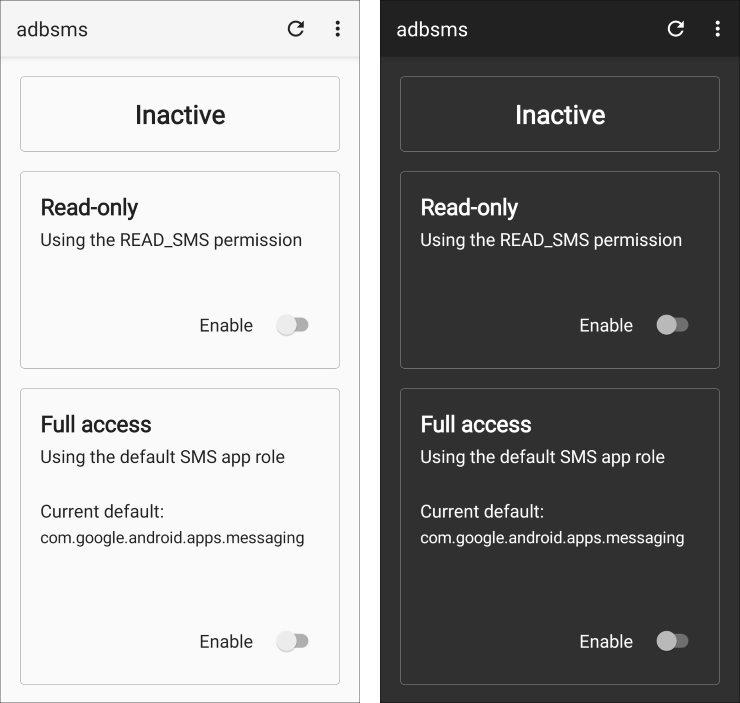
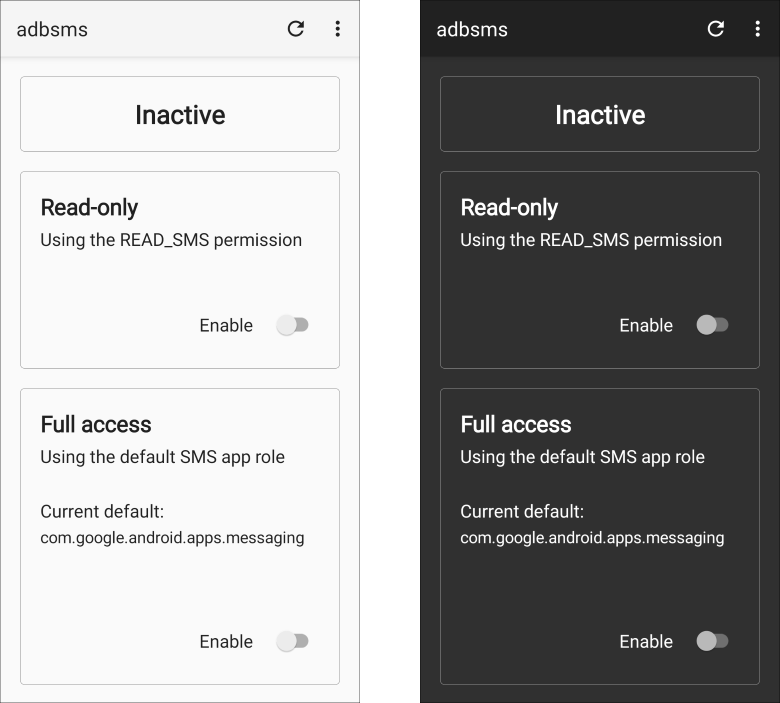
Added full access caveat to intro Notes; minor refactoring; copy-edited README, adjusted image.

diff --git a/app/src/main/kotlin/dev/gonodono/adbsms/MainActivity.kt b/app/src/main/kotlin/dev/gonodono/adbsms/MainActivity.kt
@@ -47,7 +47,7 @@ class MainActivity : AppCompatActivity() {
         super.onCreate(savedInstanceState)
 
         enableEdgeToEdge()
-        val ui = ActivityMainBinding.inflate(layoutInflater).also { ui = it }
+        ui = ActivityMainBinding.inflate(layoutInflater)
         ui.root.applyInsetsListener()
         setContentView(ui.root)
 
@@ -100,7 +100,7 @@ class MainActivity : AppCompatActivity() {
         updateUi()
     }
 
-    private fun updateUi() = ui.let { ui ->
+    private fun updateUi() {
         val hasRead = hasReadSmsPermission()
         val default = getDefaultSmsPackage()
         val isDefault = packageName == default

diff --git a/README.md b/README.md
@@ -7,7 +7,7 @@ over adb without causing a `SecurityException` due to missing permissions.
 <p align="center">
 <img src="images/screenshots.png"
 alt="Screenshots of the app in light and dark modes."
-width="20%" />
+width="25%" />
 </p>
 
 <br />
@@ -27,7 +27,7 @@ The app offers two levels of access to the SMS Provider:
 + Read-only, by acquiring the `READ_SMS` permission.
 
   This option is the most straightforward of the two. However, on Marshmallow
-  and above, you will be able to view only _inbox_ and _sent_ messages.
+  and above, you will be able to view only Inbox and Sent messages.
 
 + Full access, by assuming the default SMS app role.
 
@@ -37,7 +37,7 @@ The app offers two levels of access to the SMS Provider:
   would be possible to implement some sort of fallback logging or persistence in
   [the relevant component classes][stubs], should you really need it.
 
-After enabling the desired option, queries can be made just as they usually are
+After enabling the desired option, queries can be made like they usually are
 over adb by replacing the authority in any `content://sms` URI with `adbsms`.
 
 ### Examples
@@ -51,7 +51,7 @@ To list the number and text for all (viewable) messages:
 adb shell content query --uri content://adbsms --projection address:body
 ```
 
-Or just the _sent_ messages:
+Or just the Sent messages:
 
 ```
 adb shell content query --uri content://adbsms/sent --projection address:body
@@ -101,16 +101,16 @@ following table.
 
 ## Notes
 
-+ Don't get your hopes up if you're using the default SMS app option looking for
-  those other message types. Though most apps use the _inbox_ and _sent_ types
-  appropriately, it seems that many don't use _draft_ and/or the others at all.
-  I guess they save that data to internal storage instead, for some reason. Just
-  a heads up.
++ If you plan to use the default SMS app option in order to get at the hidden
+  types, you should know that not all SMS apps utilize each one. Though most
+  use Inbox and Sent consistently, it seems that many apps just don't use Draft
+  and/or the others at all. I'm guessing they save those messages to internal
+  storage instead, for some reason. Just a heads up.
 
-+ I haven't implemented every possible `ContentProvider` operation in the
-  [`AdbSmsProvider`][provider] class, but it does cover the required overrides.
-  I _think_ that should be sufficient for everything that adb can do, but if you
-  find that I've missed something, please [file an issue][issue] for it.
++ I have not implemented every possible `ContentProvider` operation in the
+  [`AdbSmsProvider`][provider] class, but it does cover all of the required
+  overrides. I _think_ that should be sufficient for everything that adb can do,
+  but if you find something I've missed, please [file an issue][issue] for it.
 
 [stubs]: app/src/main/kotlin/dev/gonodono/adbsms/DefaultSmsAppStubs.kt
 
